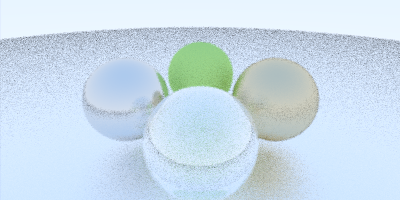
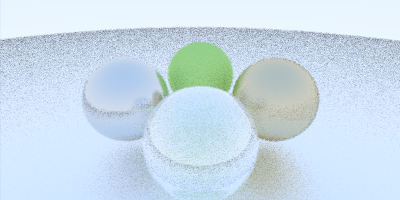
Change random generator to C rand for speed

diff --git a/src/utilities/random.cpp b/src/utilities/random.cpp
@@ -1,28 +1,24 @@
 #include "random.h"
-
-std::random_device Random::device;
-std::mt19937 Random::generator(device());
+#include <cstdlib>
+#include <ctime>
 
 bool Random::reseed()
 {
-	generator.seed(device());
+	srand(time(NULL));
+	return true;
 }
 
 float Random::random()
 {
-	static std::uniform_real_distribution<float> dist(-1, 1);
-	return dist(generator);
+	return -1 + (float)(rand()) / ((float)(RAND_MAX / (1 - (-1))));
 }
 
 Vector3 Random::randomInUnitSphere()
 {
-    static std::uniform_real_distribution<float> dist(-1, 1);
-    // generator.seed(device());
-    
-    Vector3 p = Vector3(dist(generator), dist(generator), dist(generator)) * 2.0f - Vector3(1, 1, 1);
-	while(dot(p, p) >= 1.0f) 
+	Vector3 p = Vector3(random(), random(), random()) * 2.0f - Vector3(1, 1, 1);
+	while (dot(p, p) >= 1.0f)
 	{
-		p = Vector3(dist(generator), dist(generator), dist(generator)) * 2.0f - Vector3(1, 1, 1);
+		p = Vector3(random(), random(), random()) * 2.0f - Vector3(1, 1, 1);
 	}
 
 	return p;

diff --git a/src/main.cpp b/src/main.cpp
@@ -7,6 +7,7 @@
 #include "materials\diffuse.h"
 #include "materials\metal.h"
 #include "materials\refractive.h"
+#include "utilities\random.h"
 
 float elapsedSeconds()	
 {
@@ -19,6 +20,8 @@ float elapsedSeconds()
 
 int main()
 {
+	Random::reseed();
+
 	printf("Parsing config... ");
 	std::ifstream file("config.toml");
 	toml::ParseResult parseResult = toml::parse(file);

diff --git a/src/utilities/random.h b/src/utilities/random.h
@@ -1,15 +1,10 @@
 #pragma once
-#include <random>
 #include "..\math.h"
 
 class Random
 {
-public:
+  public:
     static bool reseed();
     static float random();
     static Vector3 randomInUnitSphere();
-
-private:
-    static std::random_device device;
-	static std::mt19937 generator;
 };

diff --git a/src/math.h b/src/math.h
@@ -1,7 +1,7 @@
 #pragma once
-#include <glm\vec3.hpp>
-#include <glm/gtc/type_precision.hpp>
 #include <glm\glm.hpp>
+#include <glm\gtc\type_precision.hpp>
+#include <glm\vec3.hpp>
 
 typedef glm::vec3 Vector3;
 typedef glm::i32vec2 Vector2i;
